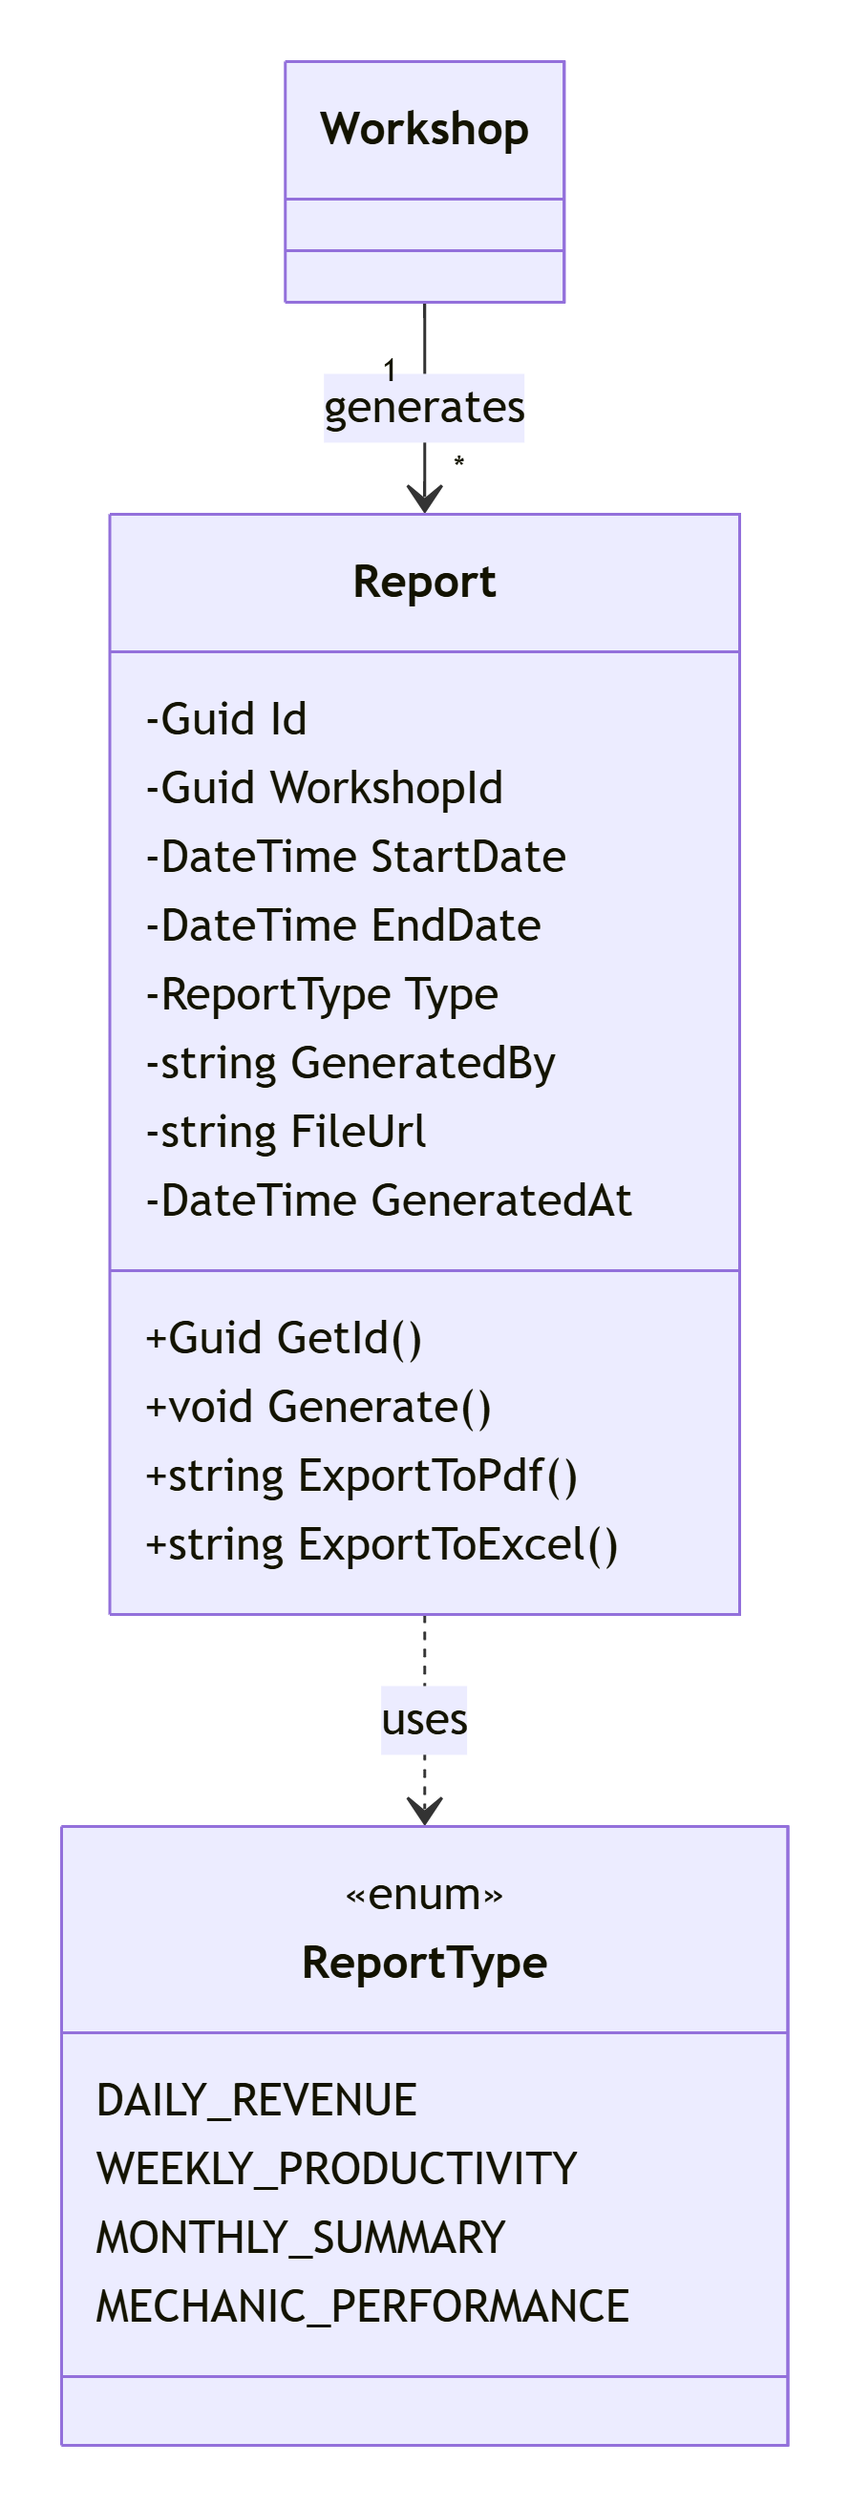
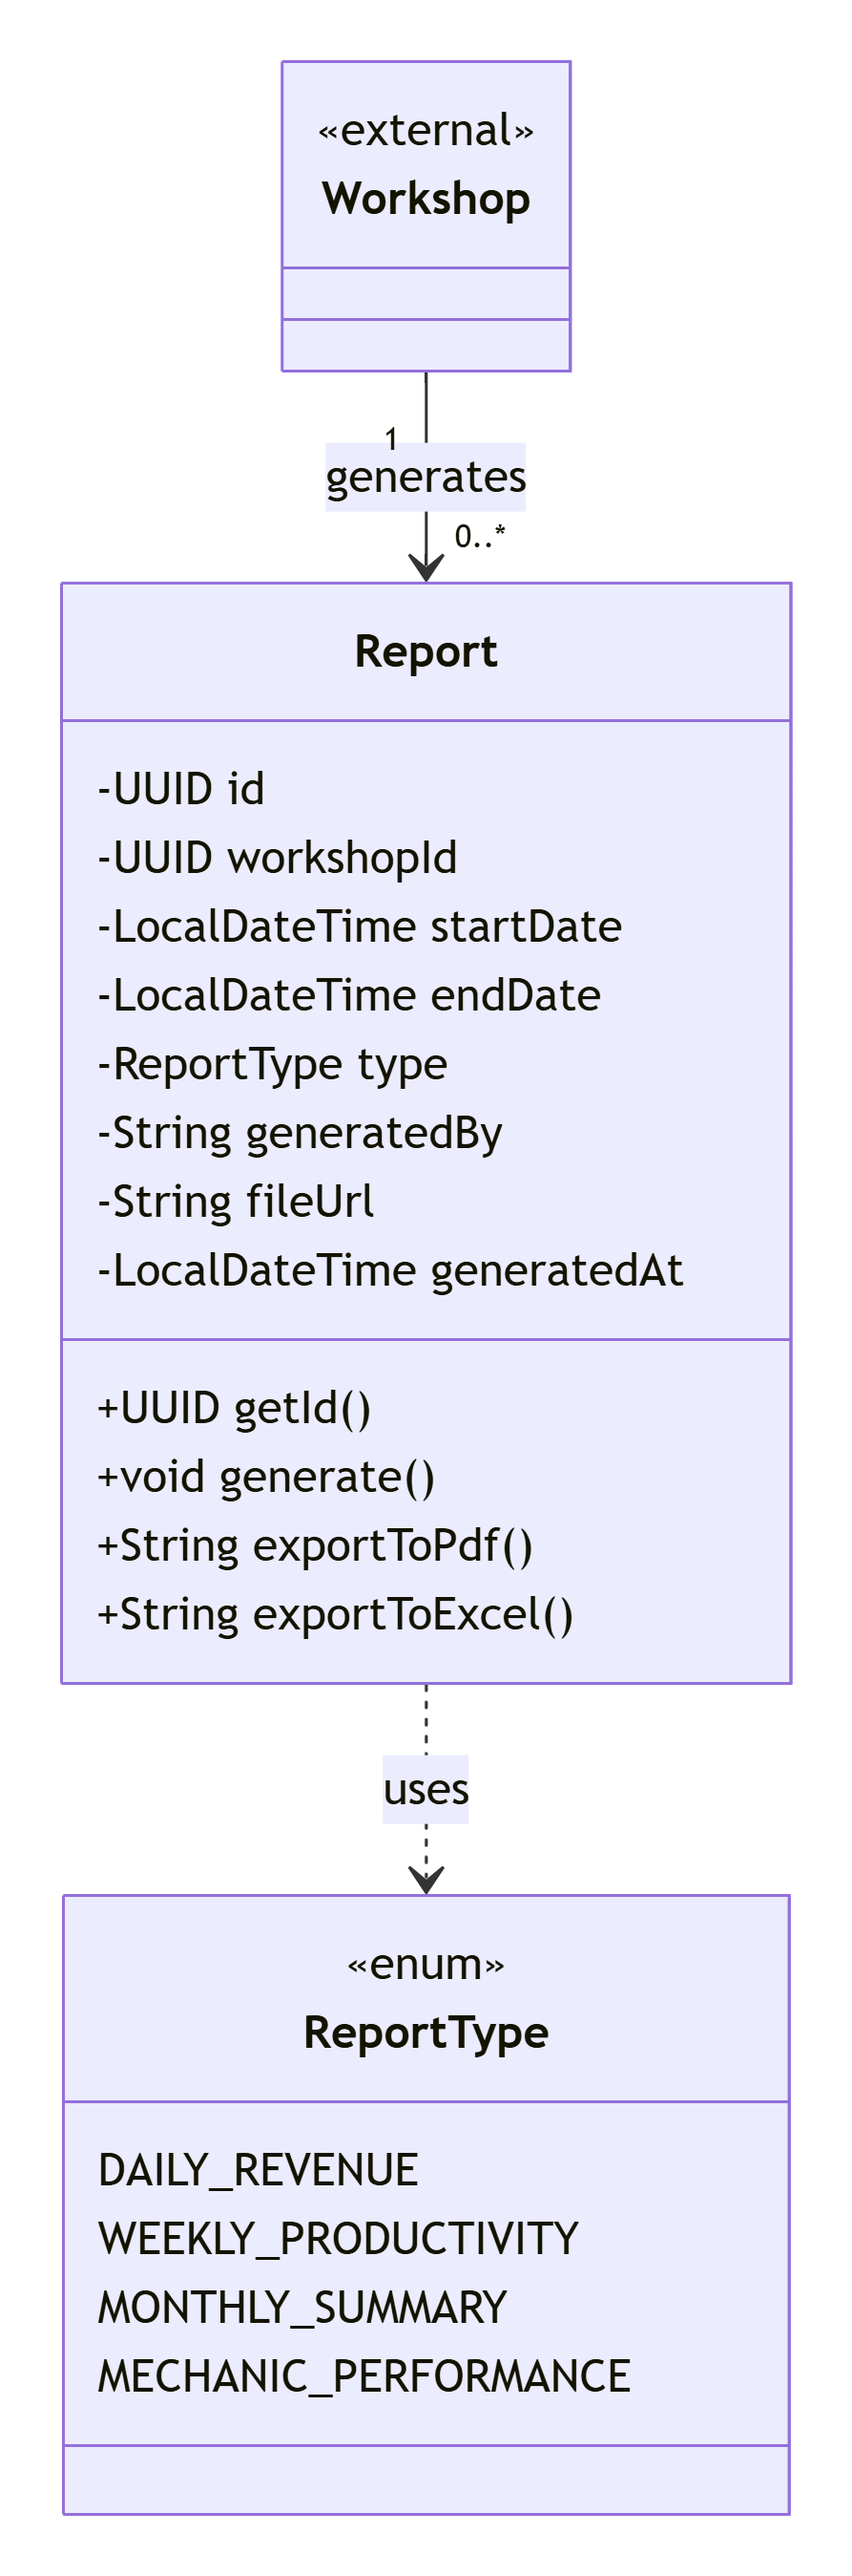
docs: update class diagrams for Chapter 4

diff --git a/Capitulo_4.md b/Capitulo_4.md
@@ -299,8 +299,6 @@ Este diagrama profundiza en el contenedor API RESTful para exponer los bloques e
   asegurando una clara separación de responsabilidades, alta cohesión y bajo acoplamiento.
 </p>
 
-
-
 <table>
   <thead>
     <tr>
@@ -318,8 +316,8 @@ Este diagrama profundiza en el contenedor API RESTful para exponer los bloques e
       <td align="justify">- private, + public, # protected – encapsulamiento.</td>
     </tr>
     <tr>
-      <td>Tipos de Datos C#</td>
-      <td align="justify">Guid, string, DateTime, decimal, bool, int – tipado nativo .NET.</td>
+      <td>Tipos de Datos Java</td>
+      <td align="justify">UUID, String, LocalDateTime, BigDecimal, boolean, int, enum – tipado nativo Java.</td>
     </tr>
     <tr>
       <td>Relaciones Explícitas</td>
@@ -327,11 +325,11 @@ Este diagrama profundiza en el contenedor API RESTful para exponer los bloques e
     </tr>
     <tr>
       <td>Optimización para Persistencia</td>
-      <td align="justify">Entidades consolidadas para mapeo directo al modelo relacional de 16 tablas.</td>
+      <td align="justify">Entidades consolidadas para mapeo directo al modelo relacional de 16 tablas (JPA/Hibernate).</td>
     </tr>
     <tr>
       <td>Patrones y Principios</td>
-      <td align="justify">SOLID (SRP, DIP), Repository, Factory, Strategy.</td>
+      <td align="justify">SOLID (SRP, DIP), Repository, Factory, Strategy, Domain Events.</td>
     </tr>
   </tbody>
 </table>
